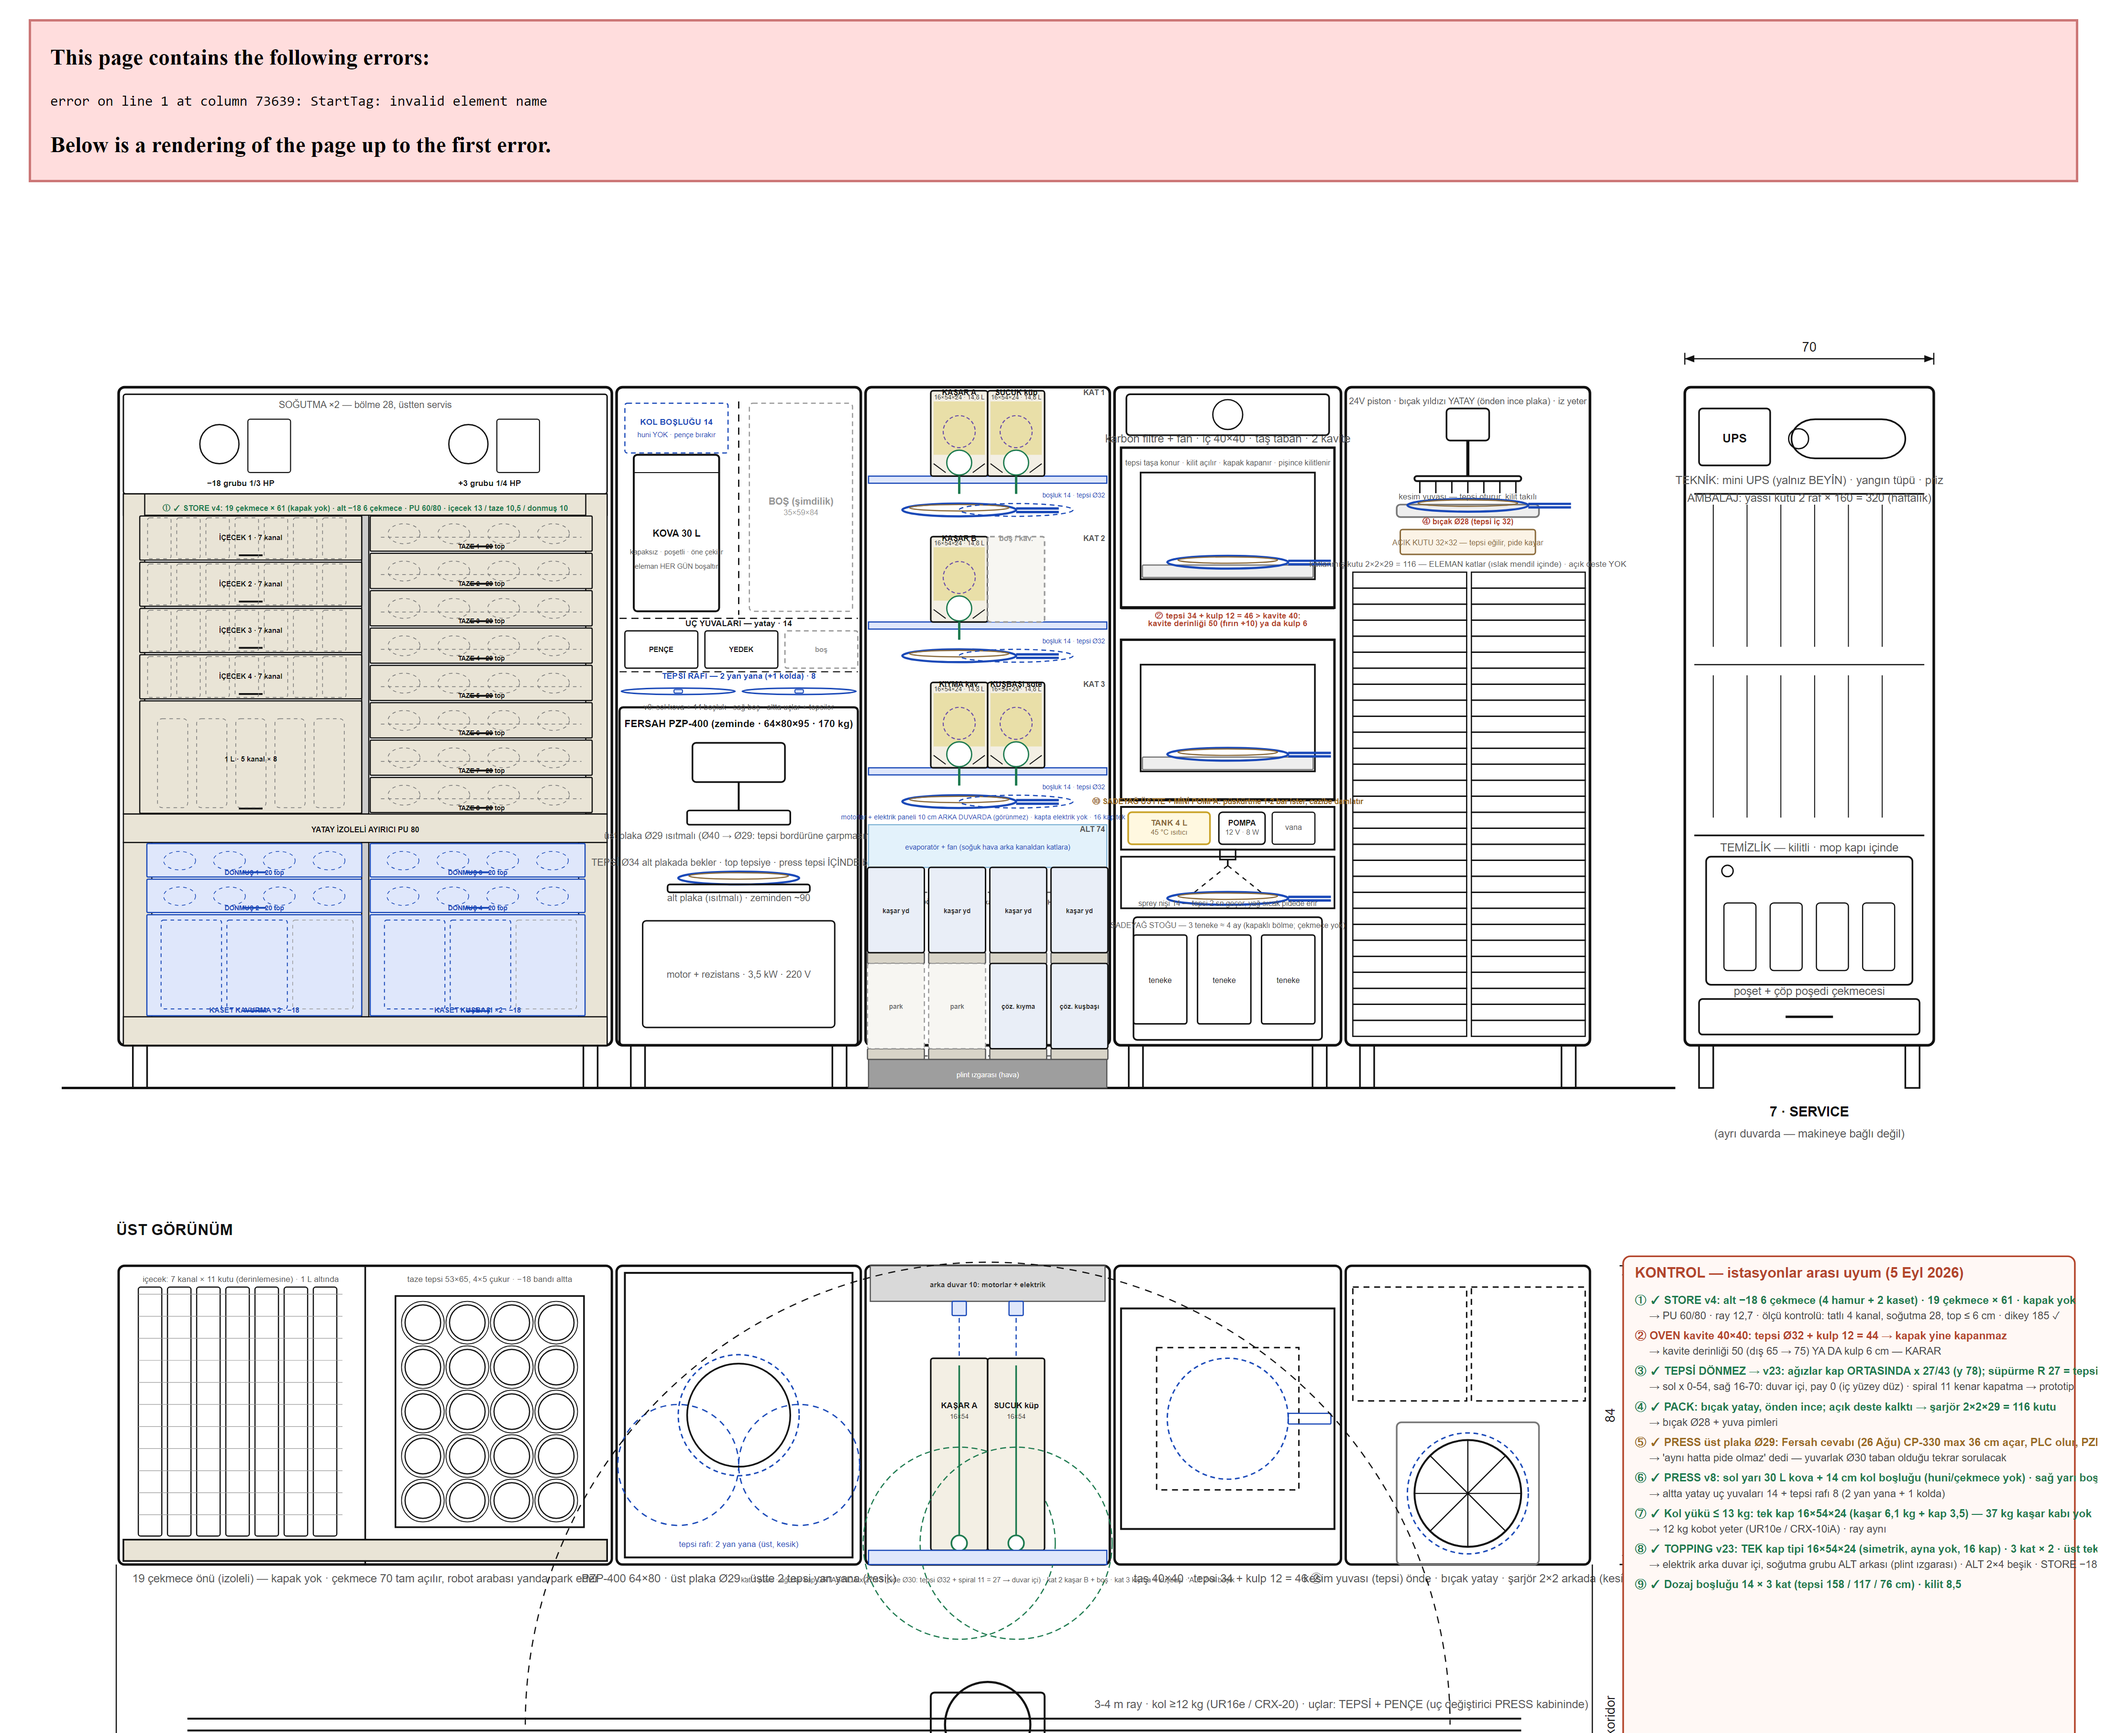
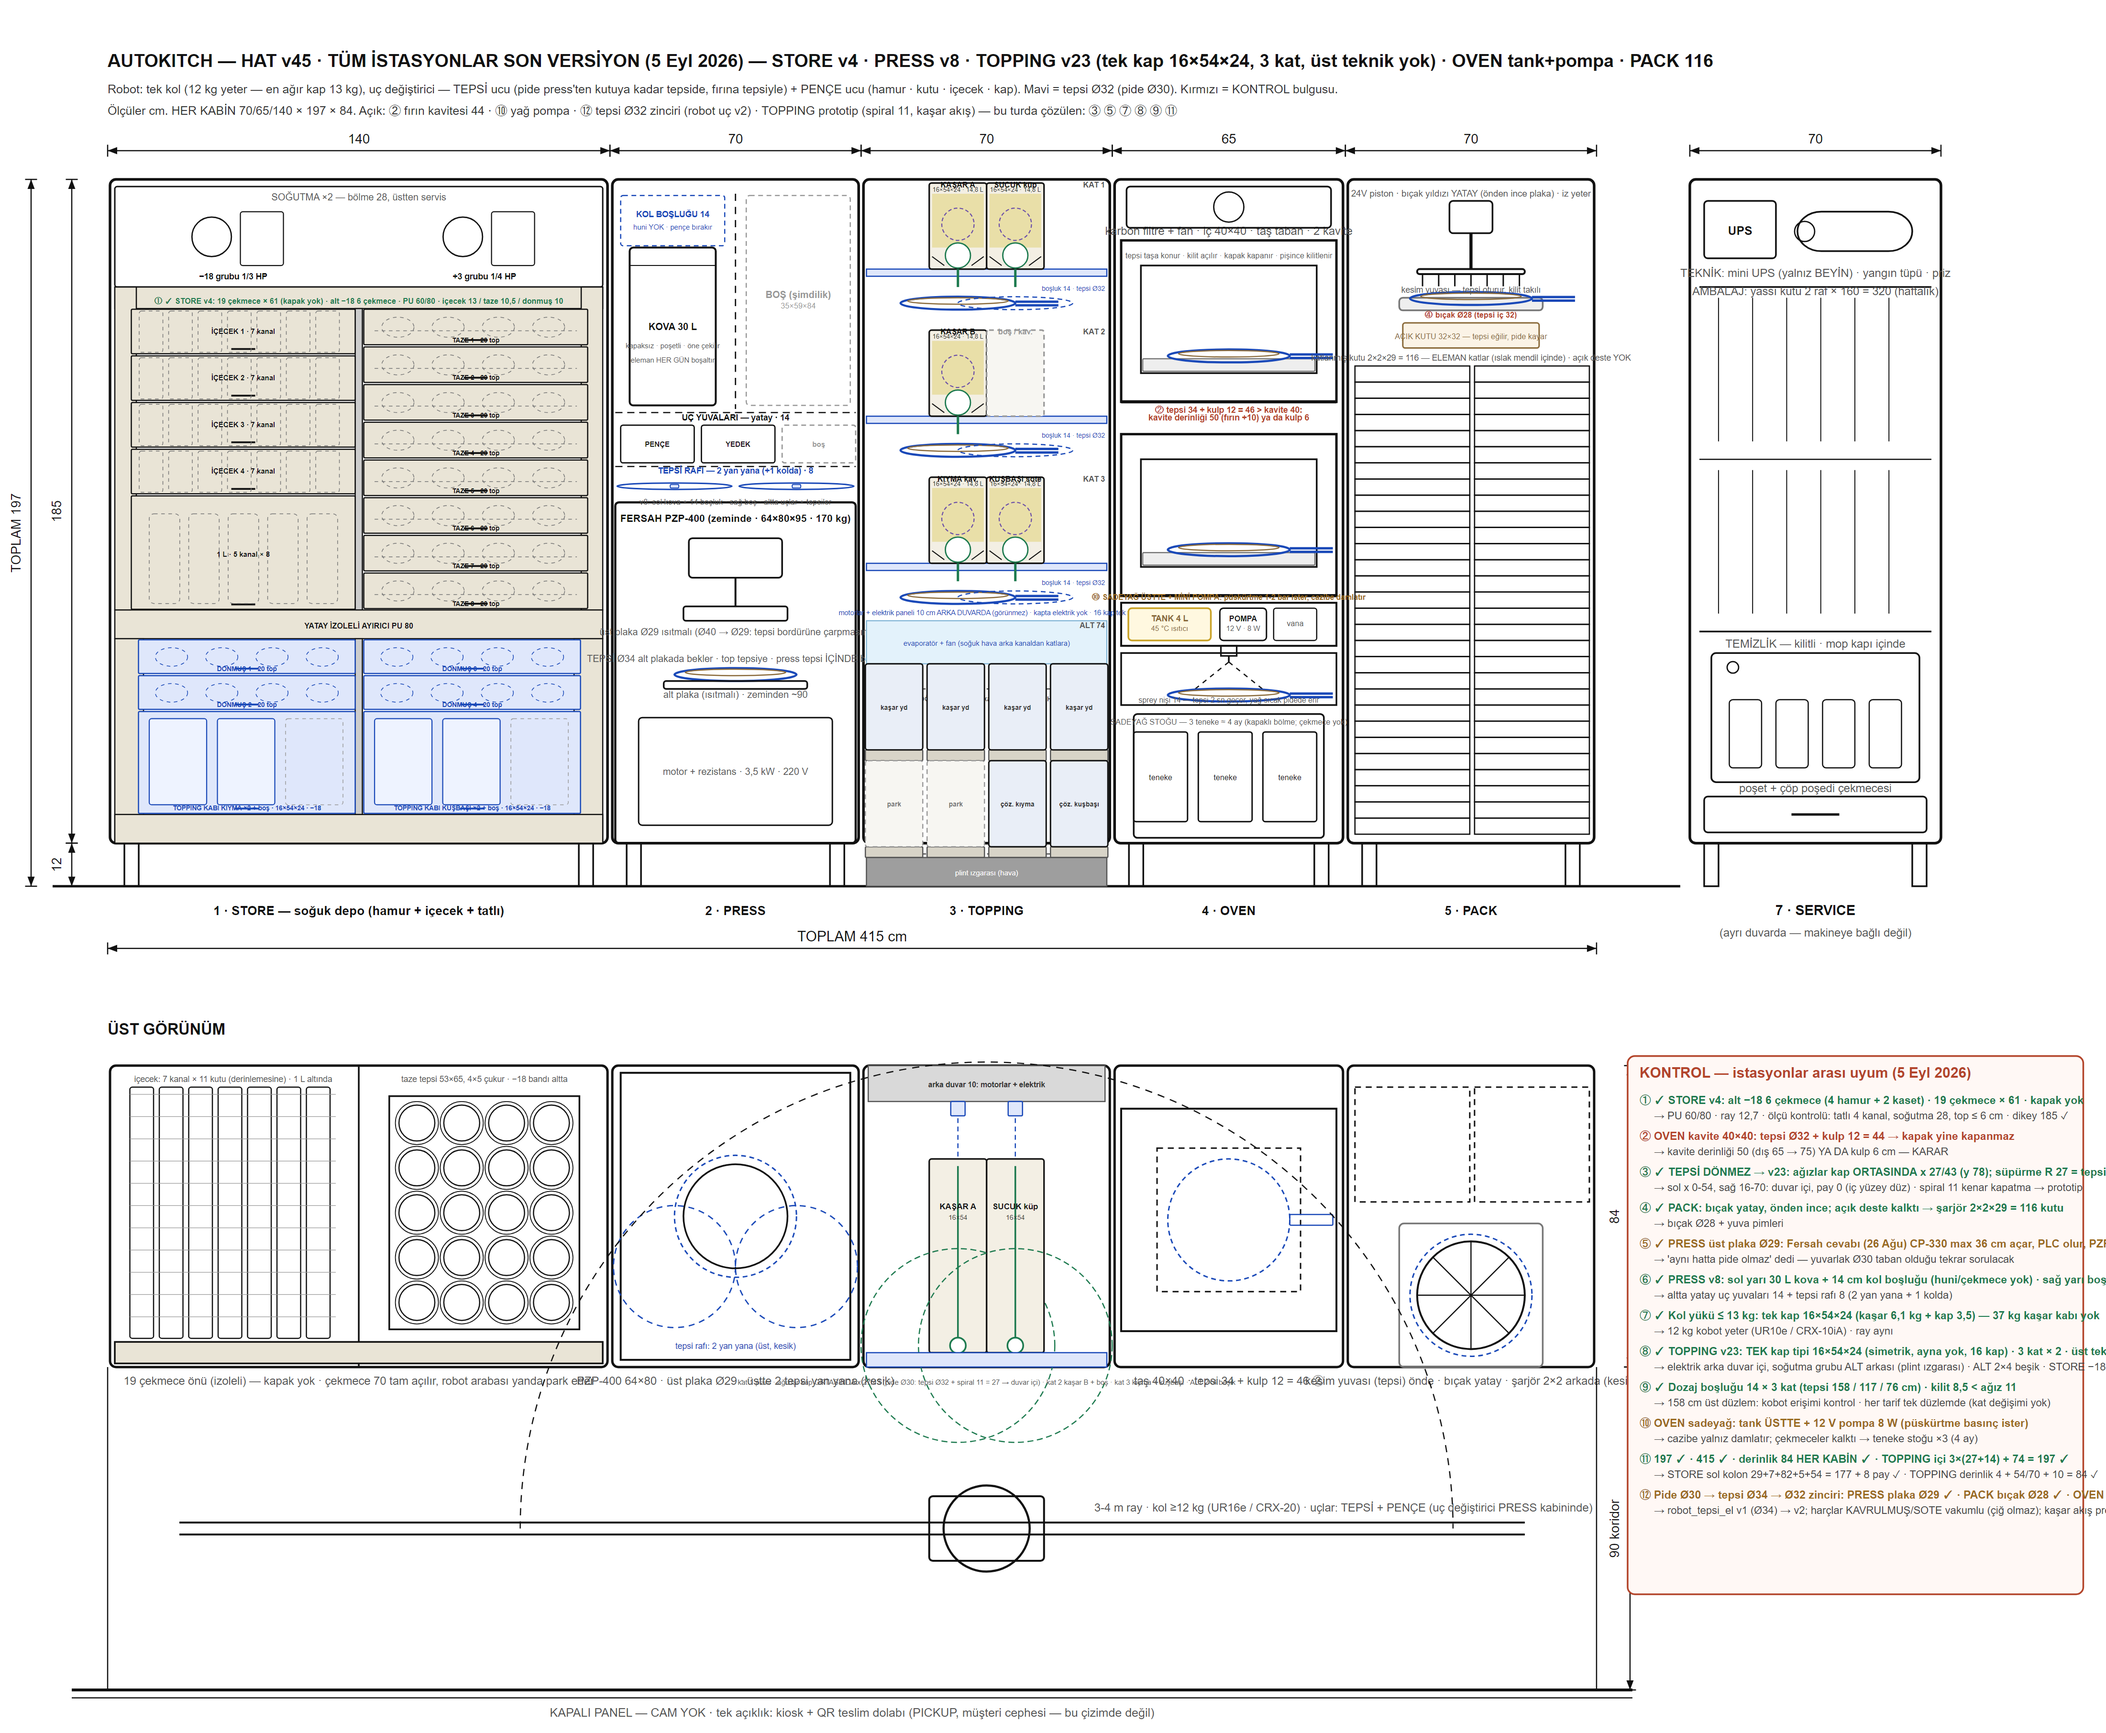
HAT v45.1: XML kırığı (⑨ '<') düzeltildi, STORE −18 çekmecesinde TOPPING kapları (kıyma/kuşbaşı 16×54×24)

diff --git a/arastirma/_uretec/teknik_cizim45.py b/arastirma/_uretec/teknik_cizim45.py
@@ -25,6 +25,7 @@ def el(cx,cy,rx,ry,sw=1.4,c="#111",dash=None):
     d=f' stroke-dasharray="{dash}"' if dash else ""
     E.append(f'<ellipse cx="{cx:.1f}" cy="{cy:.1f}" rx="{rx:.1f}" ry="{ry:.1f}" fill="none" stroke="{c}" stroke-width="{sw}"{d}/>')
 def tx(x,y,s,fs=11,a="middle",w="",col="#111"):
+    s=str(s).replace("<","&lt;")
     fw=f' font-weight="{w}"' if w else ""
     E.append(f'<text x="{x:.1f}" y="{y:.1f}" text-anchor="{a}" font-size="{fs}" fill="{col}" font-family="Arial"{fw}>{s}</text>')
 def oy(x1,x2,y,cm,fs=11):
@@ -93,11 +94,11 @@ for k in range(2):
         for i in range(4): el(xx_+px(92)+i*px(140),y+px(48),px(45),px(26),.6,'#1a49b8','3,3')
         tx(xx_+wc2/2,y+px(88),'DONMUŞ %d · 20 top' % nm,5.5,'middle','bold','#1a49b8')
 yk=Y0+px(1483)
-for xx_,nm in ((xl2,'KAVURMA'),(xr2,'KUŞBAŞI')):
+for xx_,nm in ((xl2,'KIYMA'),(xr2,'KUŞBAŞI')):
     fr(xx_,yk,wc2,px(284),'#1a49b8','#dfe7fb')
-    for i in range(2): rc(xx_+px(40)+i*px(185),yk+px(15),px(170),px(250),.8,2,'#1a49b8','3,3')
-    rc(xx_+px(410),yk+px(15),px(170),px(250),.6,2,'#999','3,3')
-    tx(xx_+wc2/2,yk+px(275),'KASET %s ×2 · −18' % nm,6,'middle','bold','#1a49b8')
+    for i in range(2): rc(xx_+px(30)+i*px(190),yk+px(20),px(160),px(240),.9,2,'#1a49b8',None,'#eef3ff')
+    rc(xx_+px(410),yk+px(20),px(160),px(240),.6,2,'#999','3,3')
+    tx(xx_+wc2/2,yk+px(275),'TOPPING KABI %s ×2 + boş · 16×54×24 · −18' % nm,5.4,'middle','bold','#1a49b8')
 tx((a0+a1)/2,Y0+px(347),'① ✓ STORE v4: 19 çekmece × 61 (kapak yok) · alt −18 6 çekmece · PU 60/80 · içecek 13 / taze 10,5 / donmuş 10',6.5,'middle','bold','#1d7a4f')
 a2,a3=am,xs[1]
 

diff --git a/arastirma/_uretec/make_hat45.py b/arastirma/_uretec/make_hat45.py
@@ -96,6 +96,12 @@ repline('tx(X0,Y0-72,"Robot:',
 repline('tx(X0,Y0-54,"Ölçüler cm.',
         'tx(X0,Y0-54,"Ölçüler cm. HER KABİN 70/65/140 × 197 × 84. Açık: ② fırın kavitesi 44 · ⑩ yağ pompa · ⑫ tepsi Ø32 zinciri (robot uç v2) · TOPPING prototip (spiral 11, kaşar akış) — bu turda çözülen: ③ ⑤ ⑦ ⑧ ⑨ ⑪",10,"start","","#333")')
 rep('hat_on_gorunus_teknik_v44.svg', 'hat_on_gorunus_teknik_v45.svg')
+# ---- v45.1: tx() '<' kaçışı (XML kırığı) + STORE −18 kaset çekmecesinde TOPPING kapları (kıyma ×2, kuşbaşı ×2 + boş, 16×54×24) ----
+repline('def tx(x,y,s,fs=11,a="middle",w="",col="#111"):', 'def tx(x,y,s,fs=11,a="middle",w="",col="#111"):' + NL + '    s=str(s).replace("<","&lt;")')
+rep("for xx_,nm in ((xl2,'KAVURMA'),(xr2,'KUŞBAŞI')):", "for xx_,nm in ((xl2,'KIYMA'),(xr2,'KUŞBAŞI')):")
+rep("    for i in range(2): rc(xx_+px(40)+i*px(185),yk+px(15),px(170),px(250),.8,2,'#1a49b8','3,3')", "    for i in range(2): rc(xx_+px(30)+i*px(190),yk+px(20),px(160),px(240),.9,2,'#1a49b8',None,'#eef3ff')")
+rep("    rc(xx_+px(410),yk+px(15),px(170),px(250),.6,2,'#999','3,3')", "    rc(xx_+px(410),yk+px(20),px(160),px(240),.6,2,'#999','3,3')")
+rep("    tx(xx_+wc2/2,yk+px(275),'KASET %s ×2 · −18' % nm,6,'middle','bold','#1a49b8')", "    tx(xx_+wc2/2,yk+px(275),'TOPPING KABI %s ×2 + boş · 16×54×24 · −18' % nm,5.4,'middle','bold','#1a49b8')")
 OUT = r"C:\Users\Kemal\Desktop\Kemal\WEBSİTE\AUTOKITCH\arastirma\_uretec\teknik_cizim45.py"
 io.open(OUT, 'w', encoding='utf-8', newline='\n').write(t)
 print('v45 uretici ok')
